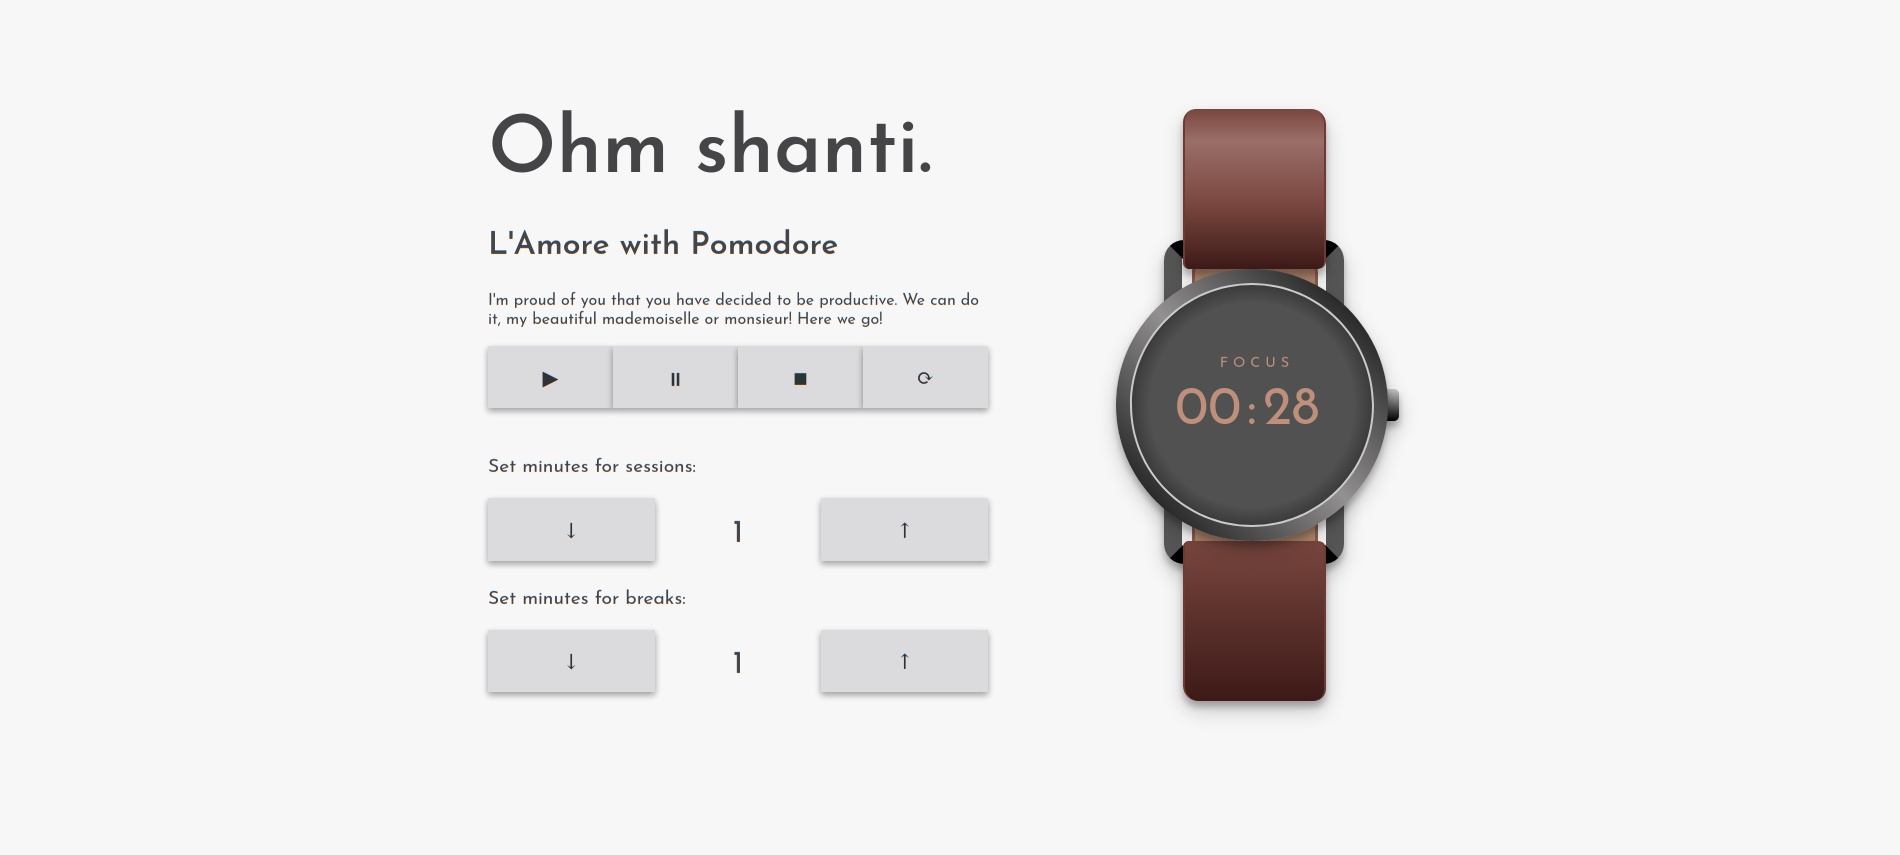
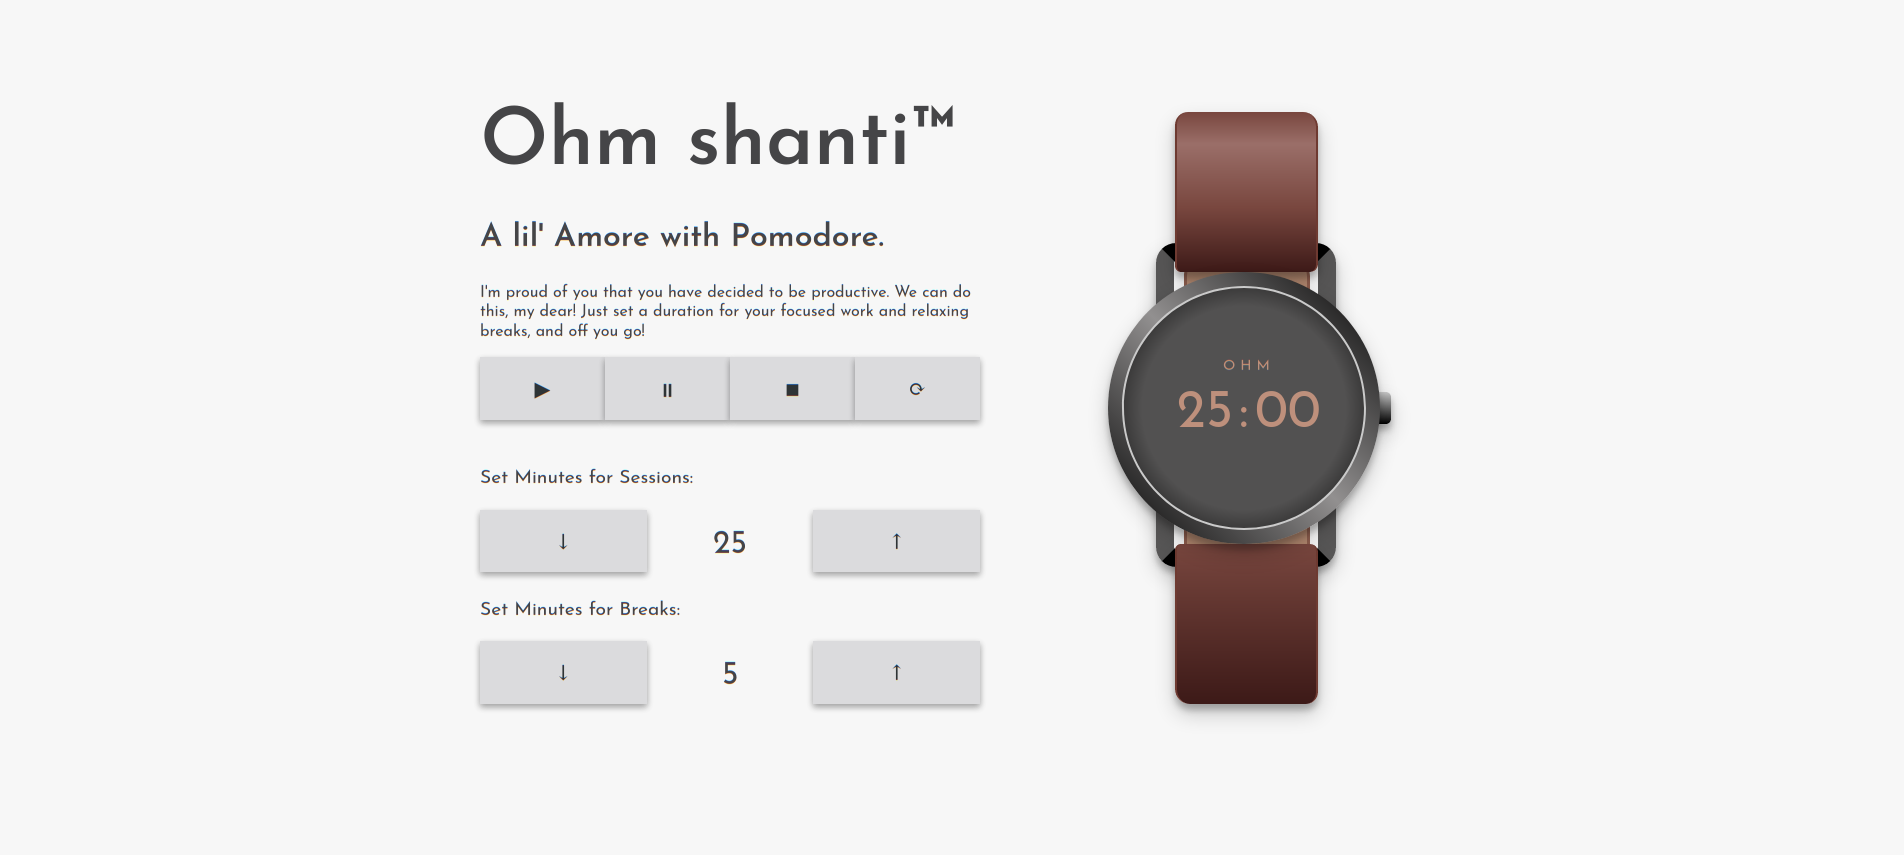
Fix bug: In break mode pressing refresh will lead to 25min

diff --git a/index.html b/index.html
@@ -1,7 +1,7 @@
 <!DOCTYPE html>
 <html>
     <head>
-        <title>Pantastic Pomodore</title>
+        <title>&#128024 Elefant</title>
         <meta charset="utf-8"></meta>
         <link rel="stylesheet" type="text/css" href="main.css">
         <link href="https://fonts.googleapis.com/css2?family=Josefin+Sans:wght@400;600&display=swap" rel="stylesheet"> 
@@ -9,9 +9,12 @@
     <body>
         <div class="left-col">
             <section id="instructions">
-                <h1>Ohm shanti.</h1>
-                <h2>L'Amore with Pomodore</h2>
-                <p>I'm proud of you that you have decided to be productive. We can do it, my beautiful mademoiselle or monsieur! Here we go!</p>    
+                <h1>Ohm shanti™</h1>
+                <h2>A lil' Amore with Pomodore.</h2>
+                <p>
+                    I'm proud of you that you have decided to be productive. We can do this, my dear!
+                    Just set a duration for your focused work and relaxing breaks, and off you go!
+                </p>    
             </section>
     
             <section id="controls">
@@ -22,7 +25,7 @@
             </section>
     
             <section id="settings">
-                <p>Set minutes for sessions: </p>
+                <p>Set Minutes for Sessions: </p>
     
                 <div class="setting-controls">
                     <button class="decrease" id="session-decrease">↓</button>
@@ -30,7 +33,7 @@
                     <button class="increase" id="session-increase">↑</button>
                 </div>
                 
-                <p>Set minutes for breaks:</p>
+                <p>Set Minutes for Breaks:</p>
                 <div class="setting-controls">
                     <button class="decrease" id="break-decrease">↓</button>
                     <div class="number" id="break-minutes">5</div>

diff --git a/main.js b/main.js
@@ -7,16 +7,13 @@ const refreshButton = document.querySelector("#refresh");
 const decreaseSessionMinutes    = document.querySelector("#session-decrease");
 const sessionMinutes            = document.querySelector("#session-minutes");
 const increaseSessionMinutes    = document.querySelector("#session-increase");
-
 const decreaseBreakMinutes      = document.querySelector("#break-decrease");
 const breakMinutes              = document.querySelector("#break-minutes");
 const increaseBreakMinutes      = document.querySelector("#break-increase");
 
 const minutesDom = document.querySelector("#minutes");
 const secondsDom = document.querySelector("#seconds");
-
 const pauseDom = document.querySelector("#pause-message");
-
 const sound = document.querySelector("#meditation-bowl");
 
 
@@ -104,6 +101,8 @@ increaseBreakMinutes.addEventListener("click", () => {
 
 // Functions
 function countdown(){
+    setTitle();
+
     // Countdown finished
     if (min === 0 && sec === 0){
         sound.play();
@@ -161,4 +160,8 @@ function increase(dom){
 function setDisplay(targetDom, settingDom){
     formatTime(settingDom.textContent, targetDom);
     min = settingDom.textContent;
+}
+
+function setTitle(){
+    document.title = `${minutesDom.textContent}:${secondsDom.textContent} - ${pauseDom.textContent}`;
 }

diff --git a/main.css b/main.css
@@ -122,7 +122,7 @@ button:hover {
 
 /* Watch */
 #watch {
-    margin: 6.3em 8em;
+    margin: 7em 8em;
     position: relative;
     width: 17em;
 }
